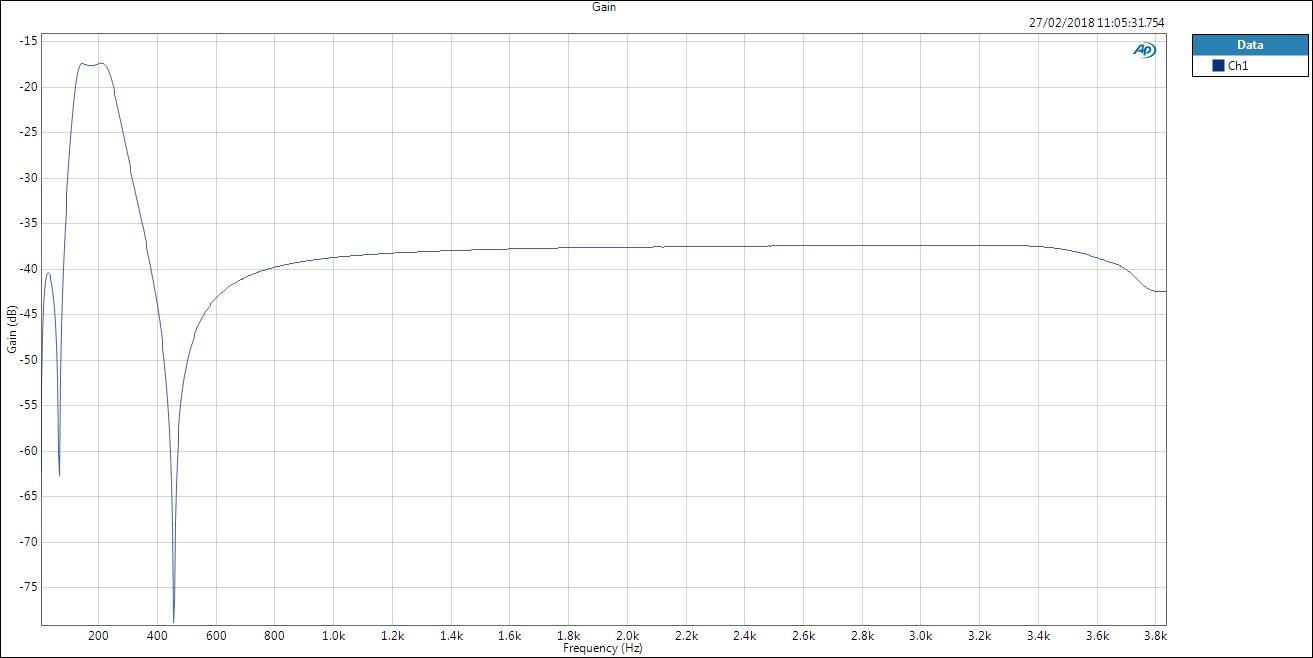
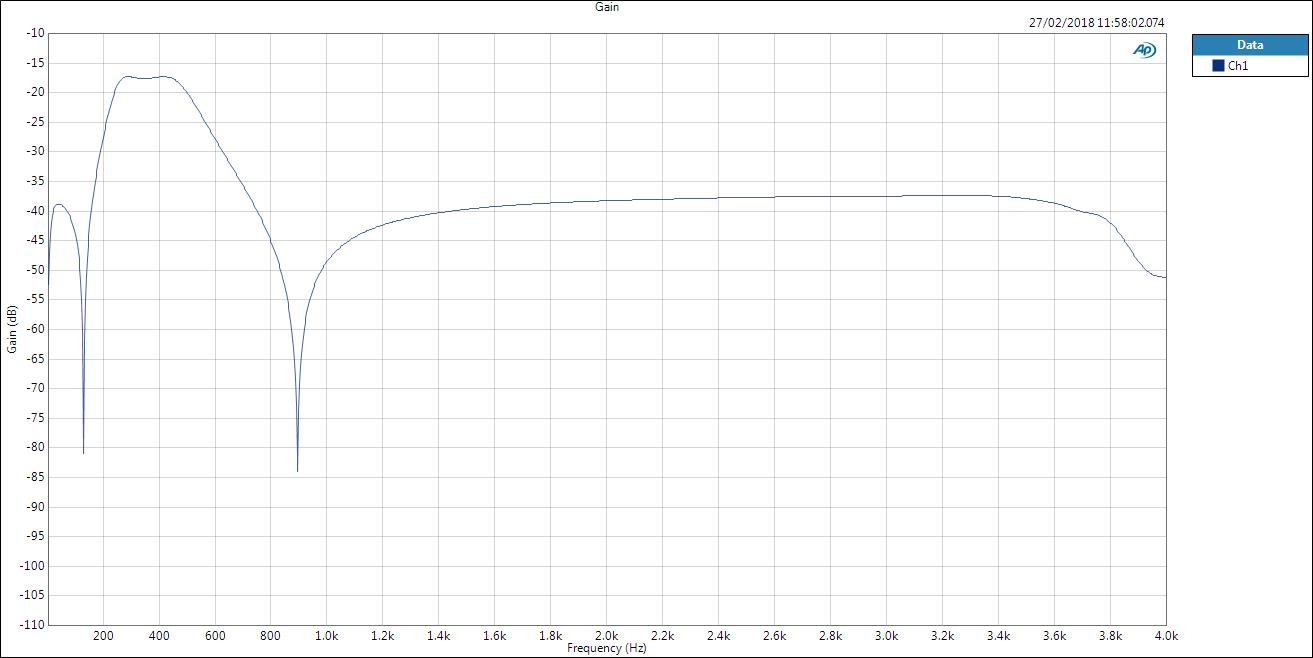
Adding working

diff --git a/lab5/RTDSP/intio.c b/lab5/RTDSP/intio.c
@@ -133,20 +133,23 @@ void init_HWI()
 void ISR_AIC()
 {
 	int i = N-1;
-	
-	y[0] = 0.0;
 
 	//Shift the values
 	for (; i > 0; --i) {
 		x[i] = x[i-1];
 		y[i] = y[i-1];
-
-		y[0] += b[i] * x[i] - a[i] * y[i];
 	}
 
 	x[0] = mono_read_16Bit();
-
-	y[0] += b[0] * x[0];
+	
+	y[0] = 0.0;
+	
+	for (i = 0; i < N; ++i) {
+		y[0] += x[i] * b[i];
+		if(i != 0) {
+			y[0] -= y[i] * a[i];	
+		}
+	}
 
 	mono_write_16Bit((short)y[0]);
 }
